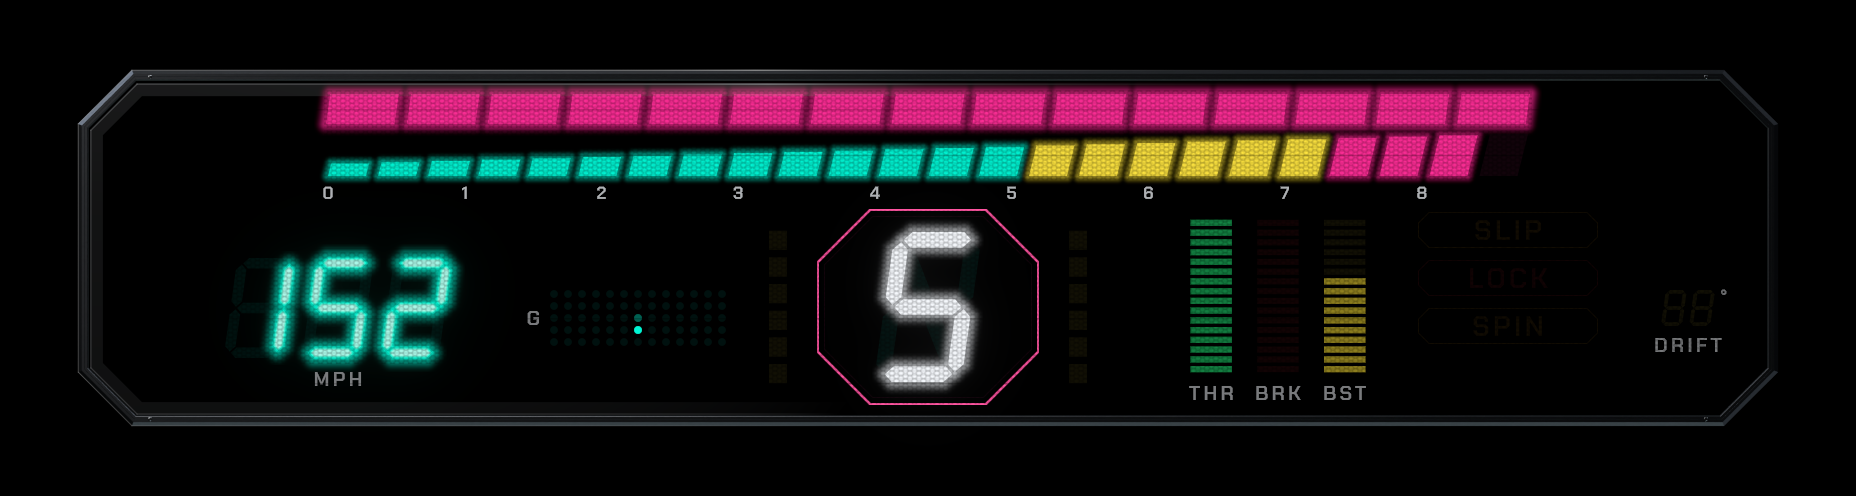
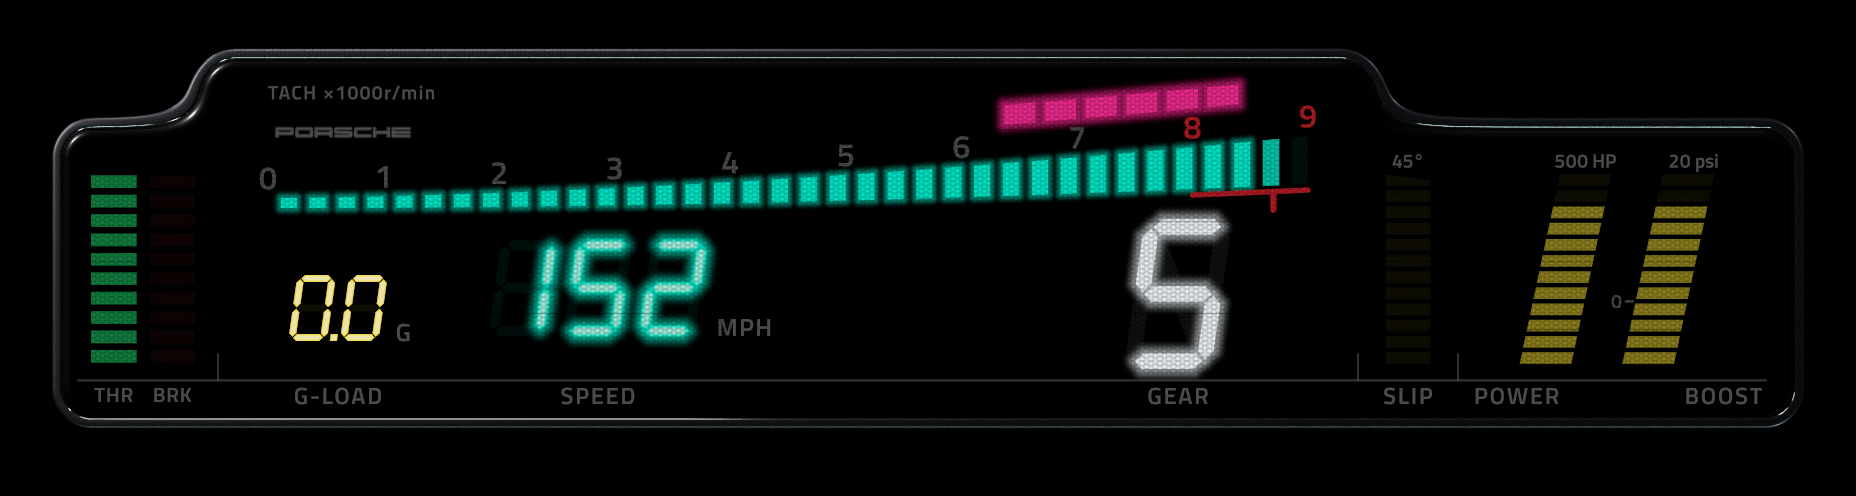
RetroCyber closing fixes: the bracket's limiter strobe opens with its on phase (timed from the limiter, not the clock); a bolder red-zone line and limiter tick; goldens and handover shots from the cloud render

diff --git a/crates/fh6-clusters/src/clusters/retro_cyber/mod.rs b/crates/fh6-clusters/src/clusters/retro_cyber/mod.rs
@@ -71,7 +71,7 @@ use fh6_kit::logo::LogoStyle;
 use fh6_kit::{
     vec2, Affine, Align, BlendMode, Cluster, Color, FontId, FontRole, FrameInput, Gear, Glow, Gradient, Hysteresis,
     ImageId, ImagePaint, ImageWrap, LayerOptions, Layout, Logo, OpticalGlass, Paint, Painter, Palette, Piece,
-    PowerUnit, Rect, Shape, Signals, Smoothed, TextStyle, Tokens, VAlign, Vec2, View,
+    PowerUnit, Rect, Shape, Signals, Smoothed, Strobe, TextStyle, Tokens, VAlign, Vec2, View,
 };
 
 /// Tach bars per 1,000 rpm (one per 250 rpm).
@@ -161,6 +161,11 @@ const RED_PRINT_LEVEL: f32 = 0.72;
 const RED_LINE_DROP: f32 = 6.0;
 /// Straight pieces of the red-zone line along the curved baseline.
 const RED_LINE_PARTS: usize = 6;
+/// Stroke of the red-zone line and of the limiter tick (device px): wide enough to read as the
+/// red zone at a glance (the closing cold reviewer could not find the limiter point at 3 px).
+const RED_LINE_PX: f32 = 5.0;
+/// See [`RED_LINE_PX`].
+const RED_TICK_PX: f32 = 6.0;
 /// The unlit bracket rail (the printed red line under the pods) as seen on screen.
 const RAIL_LEVEL: f32 = 0.18;
 /// The printed divider line as seen on screen (dimmer than the labels it sits over).
@@ -935,6 +940,10 @@ pub struct RetroCyber {
     cue: LimiterCue,
     scale: Scale,
     hold: LimiterHold,
+    /// Seconds on the limiter (0 off it), the clock of the bracket's strobe.
+    on_limiter: f32,
+    /// The bracket's strobe phase this frame (`None` in reduced-flash mode).
+    strobe: Option<bool>,
     bars_lit: usize,
     tip_duty: f32,
     gear: Seg7Digit,
@@ -1022,6 +1031,8 @@ impl RetroCyber {
             cue: LimiterCue::new(),
             scale,
             hold: LimiterHold::default(),
+            on_limiter: 0.0,
+            strobe: Some(false),
             bars_lit: 0,
             tip_duty: 0.0,
             gear,
@@ -1059,9 +1070,12 @@ impl RetroCyber {
     /// and follows the strip's strobe.
     fn pod_color(&self, i: usize, pal: &Palette) -> Option<Color> {
         if self.shift.over_shift() {
-            // `ShiftLights` owns the strobe clock: its outermost pod is lit exactly in the on
-            // phase (and always, as a breath, in reduced-flash mode).
-            return self.shift.color_of(0, pal);
+            // The strobe opens on the limiter with its on phase; reduced-flash mode takes
+            // `ShiftLights`' breath (its outermost pod, always lit).
+            return match self.strobe {
+                Some(on) => on.then_some(pal.shift),
+                None => self.shift.color_of(0, pal),
+            };
         }
         let level = self.shift.level();
         let rank = (i as f32 + 1.0) / PODS as f32;
@@ -1124,6 +1138,19 @@ impl Cluster for RetroCyber {
         (self.bars_lit, self.tip_duty) = self.scale.lit(self.hold.feed(sig.rpm, sig.max_rpm, dt));
         self.shift.update(&sig, &self.palette, input.t, dt, input.reduced_flash);
         self.cue.update(self.shift.over_shift(), 0.12, dt);
+        // The bracket's strobe is timed from the moment the limiter is reached, so it always
+        // opens with its on phase (the pods never go dark as the limiter arrives); in
+        // reduced-flash mode the strip's breath is used instead.
+        self.strobe = if input.reduced_flash {
+            None
+        } else {
+            Some(Strobe::LIMITER.on(self.on_limiter))
+        };
+        self.on_limiter = if self.shift.over_shift() {
+            self.on_limiter + dt.max(0.0)
+        } else {
+            0.0
+        };
 
         // Gear: white phosphor (soft glow while the limiter cue holds, drawn below), warning in
         // reverse, neutral at 72%. Segments switch on the frame the gear changes (a VFD has no
@@ -1567,11 +1594,11 @@ impl RetroCyber {
         for k in 0..RED_LINE_PARTS {
             let u0 = from + (1.0 - from) * k as f32 / RED_LINE_PARTS as f32;
             let u1 = from + (1.0 - from) * (k + 1) as f32 / RED_LINE_PARTS as f32;
-            p.fill(&Shape::line(under(u0), under(u1), px * 3.0), red);
+            p.fill(&Shape::line(under(u0), under(u1), px * RED_LINE_PX), red);
         }
         let limit = under(self.scale.limit);
         p.fill(
-            &Shape::line(limit, vec2(limit.x, limit.y + RED_LINE_DROP * 2.0), px * 4.0),
+            &Shape::line(limit, vec2(limit.x, limit.y + RED_LINE_DROP * 3.0), px * RED_TICK_PX),
             red,
         );
 
